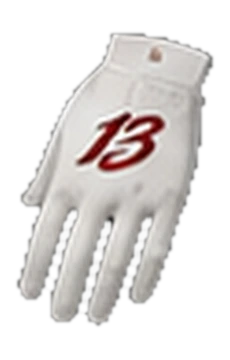
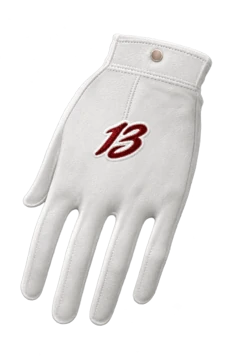
Reduce the glove signature mark for a quieter brand treatment

diff --git a/work/chasing-birdies.html b/work/chasing-birdies.html
@@ -156,7 +156,7 @@
         <li class="is-done"><span>01</span>Player</li><li class="is-current" aria-current="step"><span>02</span>Outfit</li><li><span>03</span>Course</li>
       </ol>
       <div class="cb-locked-player">
-        <div class="cb-locked-head"><svg class="cb-locked-portrait" viewBox="380 25 260 333" aria-hidden="true"><image href="/images/birdies-purdy-cohesive-black.webp?v=2" width="1024" height="1536"/></svg><div><p class="cb-select-label">PLAYER LOCKED IN</p><strong>Brock Purdy</strong><span class="cb-locked-team">San Francisco 49ers</span><small>#13 · Precision</small></div></div>
+        <div class="cb-locked-head"><svg class="cb-locked-portrait" viewBox="380 25 260 333" aria-hidden="true"><image href="/images/birdies-purdy-cohesive-black.webp?v=3" width="1024" height="1536"/></svg><div><p class="cb-select-label">PLAYER LOCKED IN</p><strong>Brock Purdy</strong><span class="cb-locked-team">San Francisco 49ers</span><small>#13 · Precision</small></div></div>
         <div class="cb-locked-overall"><strong>99</strong><span>OVR</span></div>
         <dl class="cb-player-stats">
           <div style="--v:96"><dt>Power</dt><dd>96</dd></div>
@@ -173,11 +173,11 @@
     <div class="cb-character" aria-label="Brock Purdy · Game-day wear">
       <img class="cb-character-look" data-look="golf" src="/images/birdies-purdy-cohesive-ivory.webp?v=2" alt="Brock Purdy wearing an ivory signature 13 golf polo and khaki trousers" width="1024" height="1536" loading="lazy">
       <img class="cb-character-look is-visible" data-look="game" src="/images/birdies-purdy-cohesive-game-day.webp" alt="Brock Purdy wearing his red number 13 football uniform" width="1024" height="1536" loading="lazy">
-      <img class="cb-character-look" data-look="black-glove" src="/images/birdies-purdy-cohesive-black.webp?v=2" alt="Brock Purdy in a black 49ers polo with a white 13 golf glove" width="1024" height="1536" loading="lazy">
+      <img class="cb-character-look" data-look="black-glove" src="/images/birdies-purdy-cohesive-black.webp?v=3" alt="Brock Purdy in a black 49ers polo with a white 13 golf glove" width="1024" height="1536" loading="lazy">
       <p class="cb-preview-caption"><span>Scroll to see the outfit change</span><strong>Brock Purdy · Game-day wear</strong></p>
     </div>
     <div class="cb-wardrobe"><p class="cb-select-label">MAKE IT YOURS</p><h3>From game day<br> to the green.</h3><p class="cb-wardrobe-copy">Same player. A different kind of drive.</p>
-<div class="cb-catalog-group"><h4>Golf looks</h4><ul class="cb-look-row"><li data-choice="ivory"><svg class="cb-wardrobe-thumb" viewBox="0 0 314 315" aria-hidden="true"><svg width="314" height="315" viewBox="0 0 314 315"><image href="/images/birdies-wardrobe-signature-polos.webp" width="1254" height="1254"/></svg></svg><span class="cb-item-name">Golf polo<small>Ivory · 13</small></span><span class="cb-choice-check" aria-hidden="true">✓</span></li><li data-choice="black"><svg class="cb-wardrobe-thumb" viewBox="0 0 313 315" aria-hidden="true"><svg width="313" height="315" viewBox="314 0 313 315"><image href="/images/birdies-wardrobe-v1.png" width="1254" height="1254"/></svg></svg><span class="cb-item-name">Golf polo<small>Black · 49ers</small></span><span class="cb-choice-check" aria-hidden="true">✓</span></li><li data-choice="sage"><svg class="cb-wardrobe-thumb" viewBox="0 0 314 315" aria-hidden="true"><svg width="314" height="315" viewBox="627 0 314 315"><image href="/images/birdies-wardrobe-signature-polos.webp" width="1254" height="1254"/></svg></svg><span class="cb-item-name">Golf polo<small>Sage · 13</small></span><span class="cb-choice-check" aria-hidden="true">✓</span></li><li data-choice="zip"><svg class="cb-wardrobe-thumb" viewBox="0 0 313 315" aria-hidden="true"><svg width="313" height="315" viewBox="941 0 313 315"><image href="/images/birdies-wardrobe-signature-polos.webp" width="1254" height="1254"/></svg></svg><span class="cb-item-name">Quarter zip<small>Ivory · 13</small></span><span class="cb-choice-check" aria-hidden="true">✓</span></li></ul></div><div class="cb-catalog-group"><h4>Game day looks</h4><ul class="cb-look-row"><li data-choice="scarlet"><svg class="cb-wardrobe-thumb" viewBox="0 0 314 312" aria-hidden="true"><svg width="314" height="312" viewBox="0 315 314 312"><image href="/images/birdies-wardrobe-three-stripe-jerseys.webp" width="1254" height="1254"/></svg></svg><span class="cb-item-name">Home jersey<small>Scarlet · #13</small></span><span class="cb-choice-check" aria-hidden="true">✓</span></li><li data-choice="white"><svg class="cb-wardrobe-thumb" viewBox="0 0 313 312" aria-hidden="true"><svg width="313" height="312" viewBox="314 315 313 312"><image href="/images/birdies-wardrobe-three-stripe-jerseys.webp" width="1254" height="1254"/></svg></svg><span class="cb-item-name">Away jersey<small>White · #13</small></span><span class="cb-choice-check" aria-hidden="true">✓</span></li><li data-choice="alternate"><svg class="cb-wardrobe-thumb" viewBox="0 0 314 312" aria-hidden="true"><svg width="314" height="312" viewBox="627 315 314 312"><image href="/images/birdies-wardrobe-faithful-alternate.webp" width="1254" height="1254"/></svg></svg><span class="cb-item-name">Faithful jersey<small>Black · #13</small></span><span class="cb-choice-check" aria-hidden="true">✓</span></li><li data-choice="helmet"><svg class="cb-wardrobe-thumb" viewBox="0 0 313 312" aria-hidden="true"><svg width="313" height="312" viewBox="941 315 313 312"><image href="/images/birdies-wardrobe-v1.png" width="1254" height="1254"/></svg></svg><span class="cb-item-name">Football helmet<small>Gold · 49ers</small></span><span class="cb-choice-check" aria-hidden="true">✓</span></li></ul></div><div class="cb-catalog-group"><h4>Accessories</h4><ul class="cb-look-row cb-accessory-row"><li data-choice="ivory-cap"><svg class="cb-wardrobe-thumb" viewBox="0 0 300 304" aria-hidden="true"><svg width="300" height="304" viewBox="0 0 300 304"><image href="/images/birdies-caps-13.webp?v=2" width="1200" height="304"/></svg></svg><span class="cb-item-name">Golf cap<small>White · 13</small></span><span class="cb-choice-check" aria-hidden="true">✓</span></li><li data-choice="black-cap"><svg class="cb-wardrobe-thumb" viewBox="0 0 300 304" aria-hidden="true"><svg width="300" height="304" viewBox="300 0 300 304"><image href="/images/birdies-caps-13.webp?v=2" width="1200" height="304"/></svg></svg><span class="cb-item-name">Golf cap<small>Black · 13</small></span><span class="cb-choice-check" aria-hidden="true">✓</span></li><li data-choice="red-cap"><svg class="cb-wardrobe-thumb" viewBox="0 0 300 304" aria-hidden="true"><svg width="300" height="304" viewBox="600 0 300 304"><image href="/images/birdies-caps-13.webp?v=2" width="1200" height="304"/></svg></svg><span class="cb-item-name">Golf cap<small>Scarlet · 49ers</small></span><span class="cb-choice-check" aria-hidden="true">✓</span></li><li data-choice="navy-cap"><svg class="cb-wardrobe-thumb" viewBox="0 0 300 304" aria-hidden="true"><svg width="300" height="304" viewBox="900 0 300 304"><image href="/images/birdies-caps-13.webp?v=2" width="1200" height="304"/></svg></svg><span class="cb-item-name">Golf cap<small>Olive · 13</small></span><span class="cb-choice-check" aria-hidden="true">✓</span></li><li data-choice="glove"><svg class="cb-wardrobe-thumb" viewBox="0 0 230 360" aria-hidden="true"><image href="/images/birdies-glove-13.webp" width="230" height="360"/></svg><span class="cb-item-name">Golf glove<small>White · 13</small></span><span class="cb-choice-check" aria-hidden="true">✓</span></li><li data-choice="glasses"><svg class="cb-wardrobe-thumb" viewBox="0 0 313 345" aria-hidden="true"><svg width="313" height="345" viewBox="314 909 313 345"><image href="/images/birdies-wardrobe-v1.png" width="1254" height="1254"/></svg></svg><span class="cb-item-name">Sunglasses<small>Tortoiseshell</small></span><span class="cb-choice-check" aria-hidden="true">✓</span></li></ul></div><p class="cb-outfit-status">Brock Purdy · Game-day wear</p>
+<div class="cb-catalog-group"><h4>Golf looks</h4><ul class="cb-look-row"><li data-choice="ivory"><svg class="cb-wardrobe-thumb" viewBox="0 0 314 315" aria-hidden="true"><svg width="314" height="315" viewBox="0 0 314 315"><image href="/images/birdies-wardrobe-signature-polos.webp" width="1254" height="1254"/></svg></svg><span class="cb-item-name">Golf polo<small>Ivory · 13</small></span><span class="cb-choice-check" aria-hidden="true">✓</span></li><li data-choice="black"><svg class="cb-wardrobe-thumb" viewBox="0 0 313 315" aria-hidden="true"><svg width="313" height="315" viewBox="314 0 313 315"><image href="/images/birdies-wardrobe-v1.png" width="1254" height="1254"/></svg></svg><span class="cb-item-name">Golf polo<small>Black · 49ers</small></span><span class="cb-choice-check" aria-hidden="true">✓</span></li><li data-choice="sage"><svg class="cb-wardrobe-thumb" viewBox="0 0 314 315" aria-hidden="true"><svg width="314" height="315" viewBox="627 0 314 315"><image href="/images/birdies-wardrobe-signature-polos.webp" width="1254" height="1254"/></svg></svg><span class="cb-item-name">Golf polo<small>Sage · 13</small></span><span class="cb-choice-check" aria-hidden="true">✓</span></li><li data-choice="zip"><svg class="cb-wardrobe-thumb" viewBox="0 0 313 315" aria-hidden="true"><svg width="313" height="315" viewBox="941 0 313 315"><image href="/images/birdies-wardrobe-signature-polos.webp" width="1254" height="1254"/></svg></svg><span class="cb-item-name">Quarter zip<small>Ivory · 13</small></span><span class="cb-choice-check" aria-hidden="true">✓</span></li></ul></div><div class="cb-catalog-group"><h4>Game day looks</h4><ul class="cb-look-row"><li data-choice="scarlet"><svg class="cb-wardrobe-thumb" viewBox="0 0 314 312" aria-hidden="true"><svg width="314" height="312" viewBox="0 315 314 312"><image href="/images/birdies-wardrobe-three-stripe-jerseys.webp" width="1254" height="1254"/></svg></svg><span class="cb-item-name">Home jersey<small>Scarlet · #13</small></span><span class="cb-choice-check" aria-hidden="true">✓</span></li><li data-choice="white"><svg class="cb-wardrobe-thumb" viewBox="0 0 313 312" aria-hidden="true"><svg width="313" height="312" viewBox="314 315 313 312"><image href="/images/birdies-wardrobe-three-stripe-jerseys.webp" width="1254" height="1254"/></svg></svg><span class="cb-item-name">Away jersey<small>White · #13</small></span><span class="cb-choice-check" aria-hidden="true">✓</span></li><li data-choice="alternate"><svg class="cb-wardrobe-thumb" viewBox="0 0 314 312" aria-hidden="true"><svg width="314" height="312" viewBox="627 315 314 312"><image href="/images/birdies-wardrobe-faithful-alternate.webp" width="1254" height="1254"/></svg></svg><span class="cb-item-name">Faithful jersey<small>Black · #13</small></span><span class="cb-choice-check" aria-hidden="true">✓</span></li><li data-choice="helmet"><svg class="cb-wardrobe-thumb" viewBox="0 0 313 312" aria-hidden="true"><svg width="313" height="312" viewBox="941 315 313 312"><image href="/images/birdies-wardrobe-v1.png" width="1254" height="1254"/></svg></svg><span class="cb-item-name">Football helmet<small>Gold · 49ers</small></span><span class="cb-choice-check" aria-hidden="true">✓</span></li></ul></div><div class="cb-catalog-group"><h4>Accessories</h4><ul class="cb-look-row cb-accessory-row"><li data-choice="ivory-cap"><svg class="cb-wardrobe-thumb" viewBox="0 0 300 304" aria-hidden="true"><svg width="300" height="304" viewBox="0 0 300 304"><image href="/images/birdies-caps-13.webp?v=2" width="1200" height="304"/></svg></svg><span class="cb-item-name">Golf cap<small>White · 13</small></span><span class="cb-choice-check" aria-hidden="true">✓</span></li><li data-choice="black-cap"><svg class="cb-wardrobe-thumb" viewBox="0 0 300 304" aria-hidden="true"><svg width="300" height="304" viewBox="300 0 300 304"><image href="/images/birdies-caps-13.webp?v=2" width="1200" height="304"/></svg></svg><span class="cb-item-name">Golf cap<small>Black · 13</small></span><span class="cb-choice-check" aria-hidden="true">✓</span></li><li data-choice="red-cap"><svg class="cb-wardrobe-thumb" viewBox="0 0 300 304" aria-hidden="true"><svg width="300" height="304" viewBox="600 0 300 304"><image href="/images/birdies-caps-13.webp?v=2" width="1200" height="304"/></svg></svg><span class="cb-item-name">Golf cap<small>Scarlet · 49ers</small></span><span class="cb-choice-check" aria-hidden="true">✓</span></li><li data-choice="navy-cap"><svg class="cb-wardrobe-thumb" viewBox="0 0 300 304" aria-hidden="true"><svg width="300" height="304" viewBox="900 0 300 304"><image href="/images/birdies-caps-13.webp?v=2" width="1200" height="304"/></svg></svg><span class="cb-item-name">Golf cap<small>Olive · 13</small></span><span class="cb-choice-check" aria-hidden="true">✓</span></li><li data-choice="glove"><svg class="cb-wardrobe-thumb" viewBox="0 0 230 360" aria-hidden="true"><image href="/images/birdies-glove-13.webp?v=2" width="230" height="360"/></svg><span class="cb-item-name">Golf glove<small>White · 13</small></span><span class="cb-choice-check" aria-hidden="true">✓</span></li><li data-choice="glasses"><svg class="cb-wardrobe-thumb" viewBox="0 0 313 345" aria-hidden="true"><svg width="313" height="345" viewBox="314 909 313 345"><image href="/images/birdies-wardrobe-v1.png" width="1254" height="1254"/></svg></svg><span class="cb-item-name">Sunglasses<small>Tortoiseshell</small></span><span class="cb-choice-check" aria-hidden="true">✓</span></li></ul></div><p class="cb-outfit-status">Brock Purdy · Game-day wear</p>
     </div>
     </div>
   </div>

diff --git a/docs/chasing-birdies-wardrobe.md b/docs/chasing-birdies-wardrobe.md
@@ -38,3 +38,7 @@ existing `images/birdies-glove-13.webp` catalog reference: smooth white leather,
 simple wrist fastening, and the scarlet mark on the back of the hand. These were
 localized edits of the approved cutouts. The football uniform, its athletic
 numbering, and the black polo’s 49ers logo are unchanged.
+
+The glove mark was subsequently reduced to approximately 75% of its previous
+width and height, both on the worn glove and in its catalog thumbnail. Polo
+branding and football numbering were preserved.
